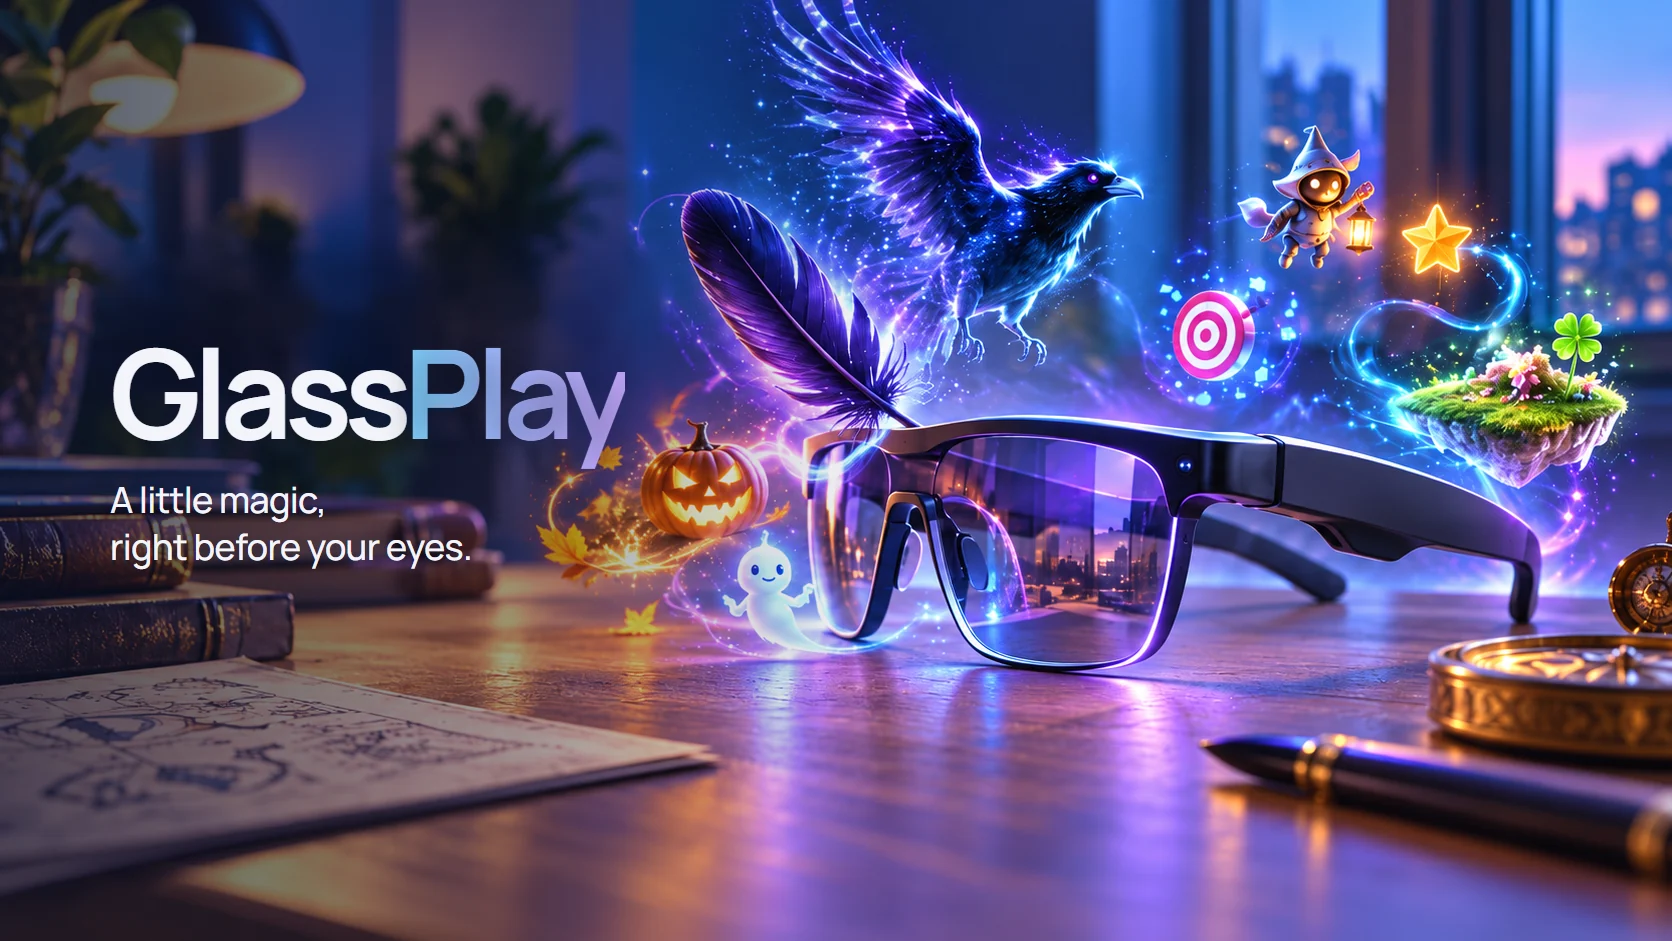
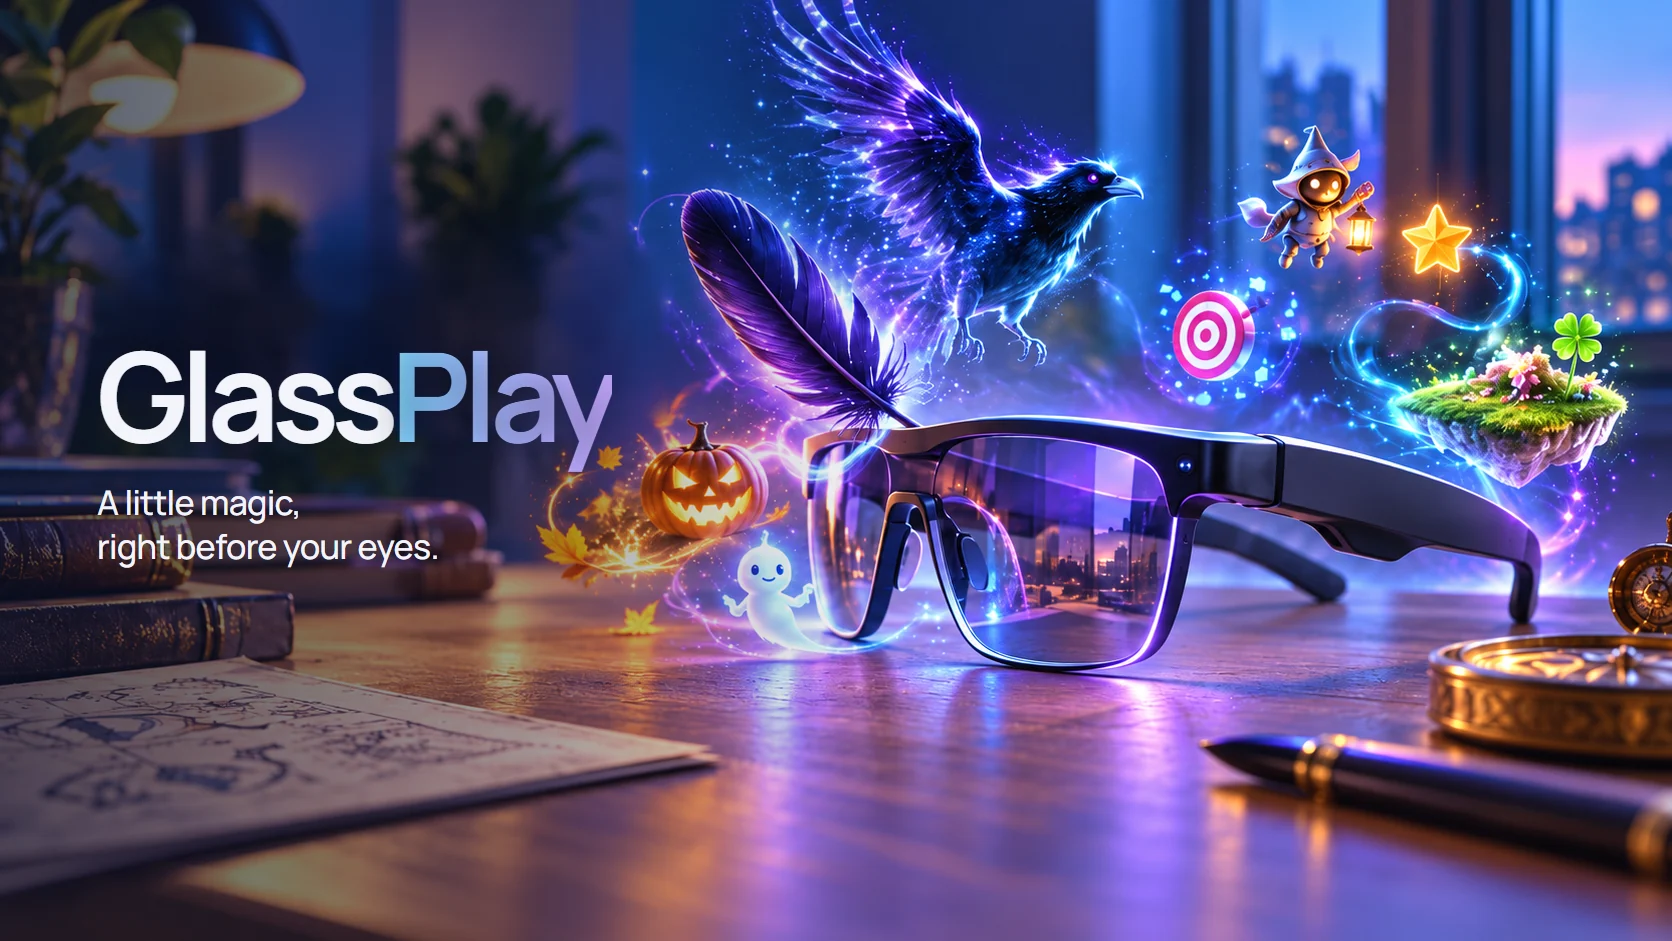
fix: review polish for tablet fold and card spacing
Stacked-range hero image capped at min(46vh, 440px) so the CTA stays above the fold at 900x800; social card and README banner tagline slightly smaller and shifted left for clearance from the artwork.

Changed region(s): [[0.0622, 0.3698, 0.3732, 0.6164]]

diff --git a/src/styles/global.css b/src/styles/global.css
@@ -54,6 +54,6 @@
   .about-section{align-items:start}.about-links{display:flex;gap:28px;flex-wrap:wrap}.creator-link{margin-top:24px}
   .site-footer nav a{min-height:28px}
   @media(max-width:1100px){.home-hero{min-height:560px}.hero-copy{padding-block:48px 64px}}
-  @media(max-width:959px){.home-hero{display:block;min-height:0;overflow:visible;background:none}.home-hero::before{display:none}.hero-art{position:relative;inset:auto;display:block}.hero-art img{height:auto;max-height:52vh;object-position:60% 30%;mask-image:linear-gradient(180deg,#000 80%,transparent 100%)}.hero-copy{padding-block:0 56px;margin-top:-24px}.wordmark{font-size:clamp(3.4rem,9vw,5.6rem)}.hero-copy h1,.hero-summary{max-width:560px}}
+  @media(max-width:959px){.home-hero{display:block;min-height:0;overflow:visible;background:none}.home-hero::before{display:none}.hero-art{position:relative;inset:auto;display:block}.hero-art img{height:auto;max-height:min(46vh,440px);object-position:60% 30%;mask-image:linear-gradient(180deg,#000 80%,transparent 100%)}.hero-copy{padding-block:0 56px;margin-top:-24px}.wordmark{font-size:clamp(3.4rem,9vw,5.6rem)}.hero-copy h1,.hero-summary{max-width:560px}}
   @media(max-width:760px){.hero-art img{max-height:none;aspect-ratio:1100/783;mask-image:linear-gradient(180deg,#000 78%,transparent 100%)}.hero-copy{padding-block:0 52px;margin-top:-28px}.hero-copy h1{gap:10px}.wordmark{font-size:clamp(3.1rem,15vw,4.4rem)}.hero-tagline{font-size:1.12rem}.hero-kicker{margin-top:22px;font-size:.72rem}.hero-summary{font-size:.94rem;max-width:390px}.hero-copy .button{margin-top:22px}.season-grid{gap:12px}.season-info{padding-top:16px}.season p{max-width:46ch}.experience-section h2{font-size:4rem}.about-section{gap:25px}}
 }
